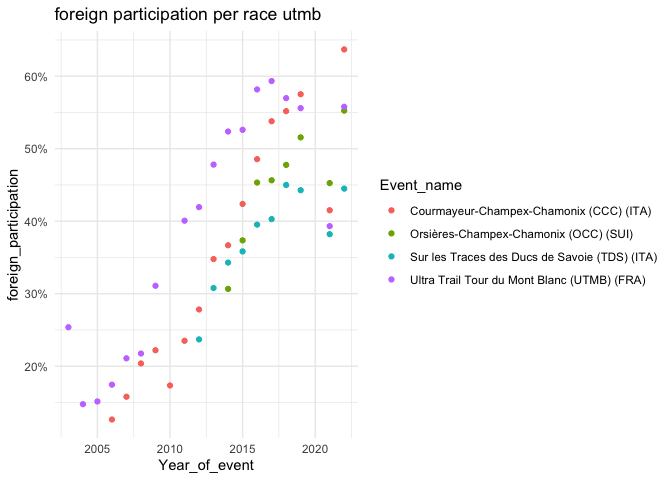
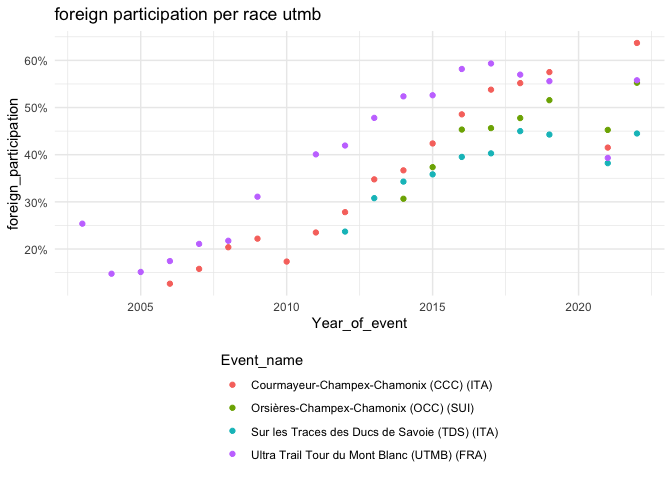
tidy up charts

diff --git a/README.md b/README.md
@@ -1100,7 +1100,8 @@ the nature of the start lines.
       theme_minimal() +
       geom_point() +
       ggtitle('foreign participation per race utmb') +
-      scale_y_continuous(labels = percent)
+      scale_y_continuous(labels = percent) +
+      theme(legend.position="bottom", legend.direction="vertical")
 
 ![](ultramarathons_files/figure-markdown_strict/unnamed-chunk-38-1.png)
 
@@ -1118,7 +1119,8 @@ are not South African.
       theme_minimal() +
       geom_point() +
       ggtitle('foreign participation per Comrades race') +
-      scale_y_continuous(labels = percent)
+      scale_y_continuous(labels = percent) +
+      theme(legend.position="bottom", legend.direction="vertical")
 
 ![](ultramarathons_files/figure-markdown_strict/unnamed-chunk-39-1.png)
 
